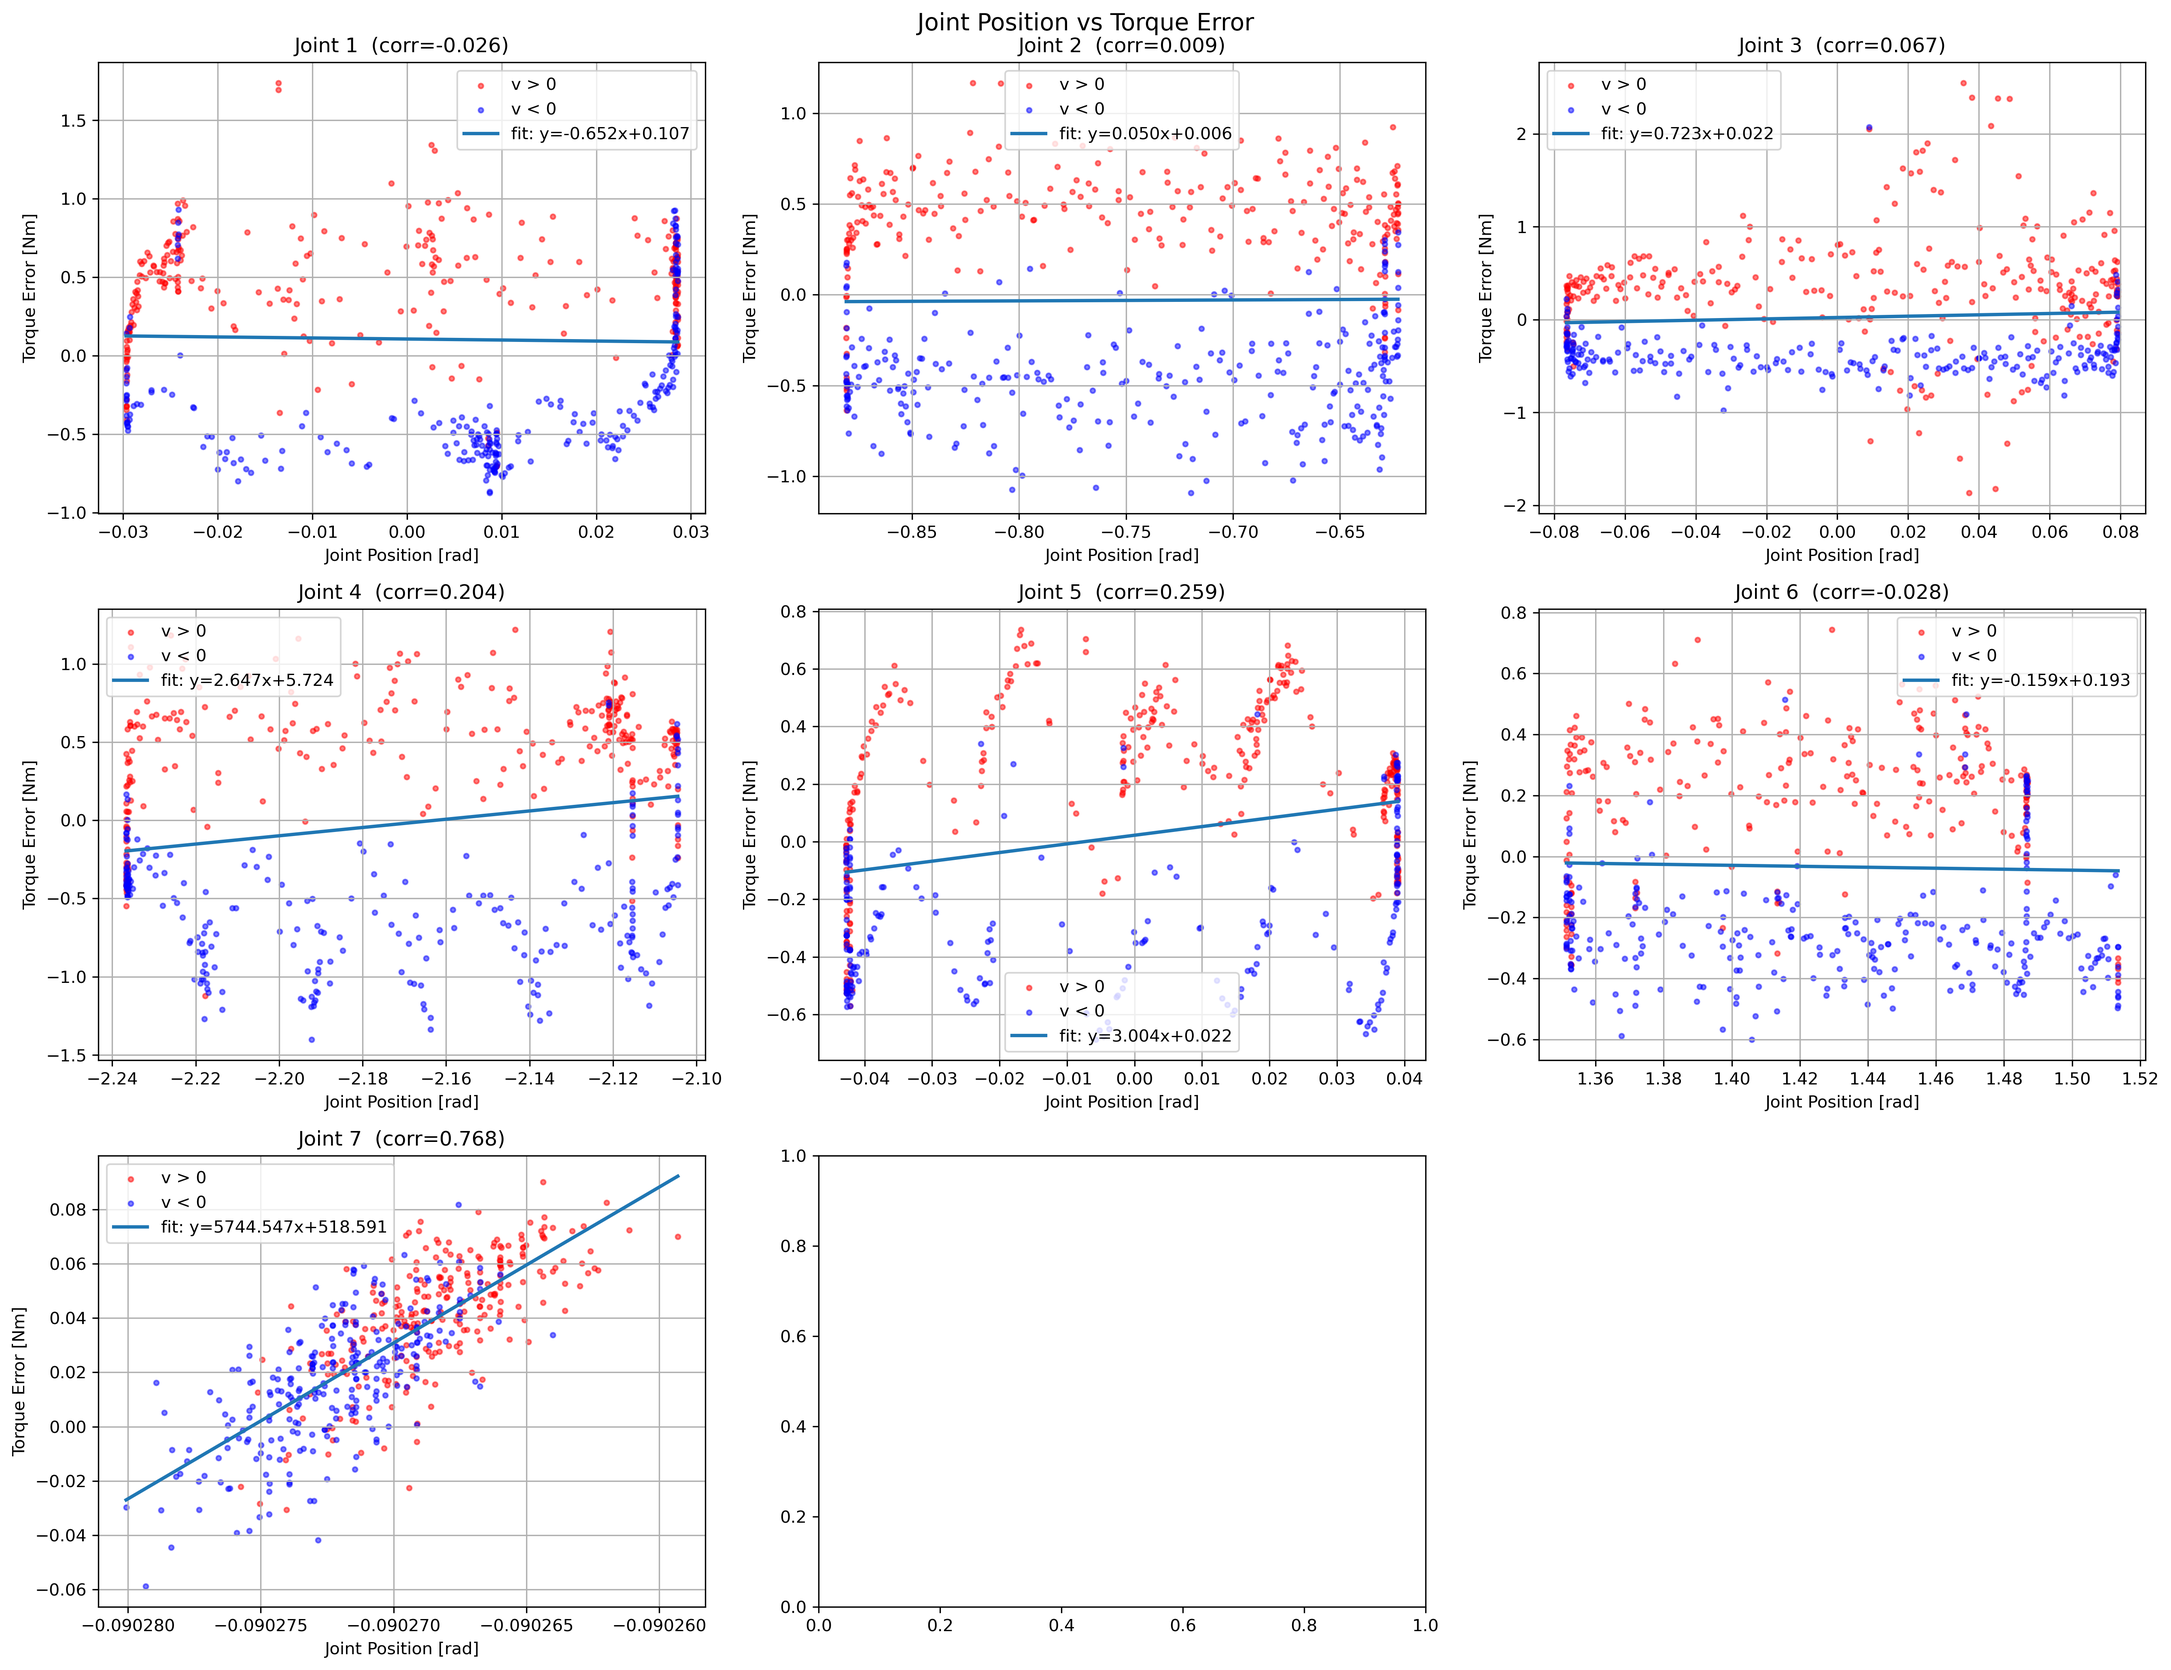
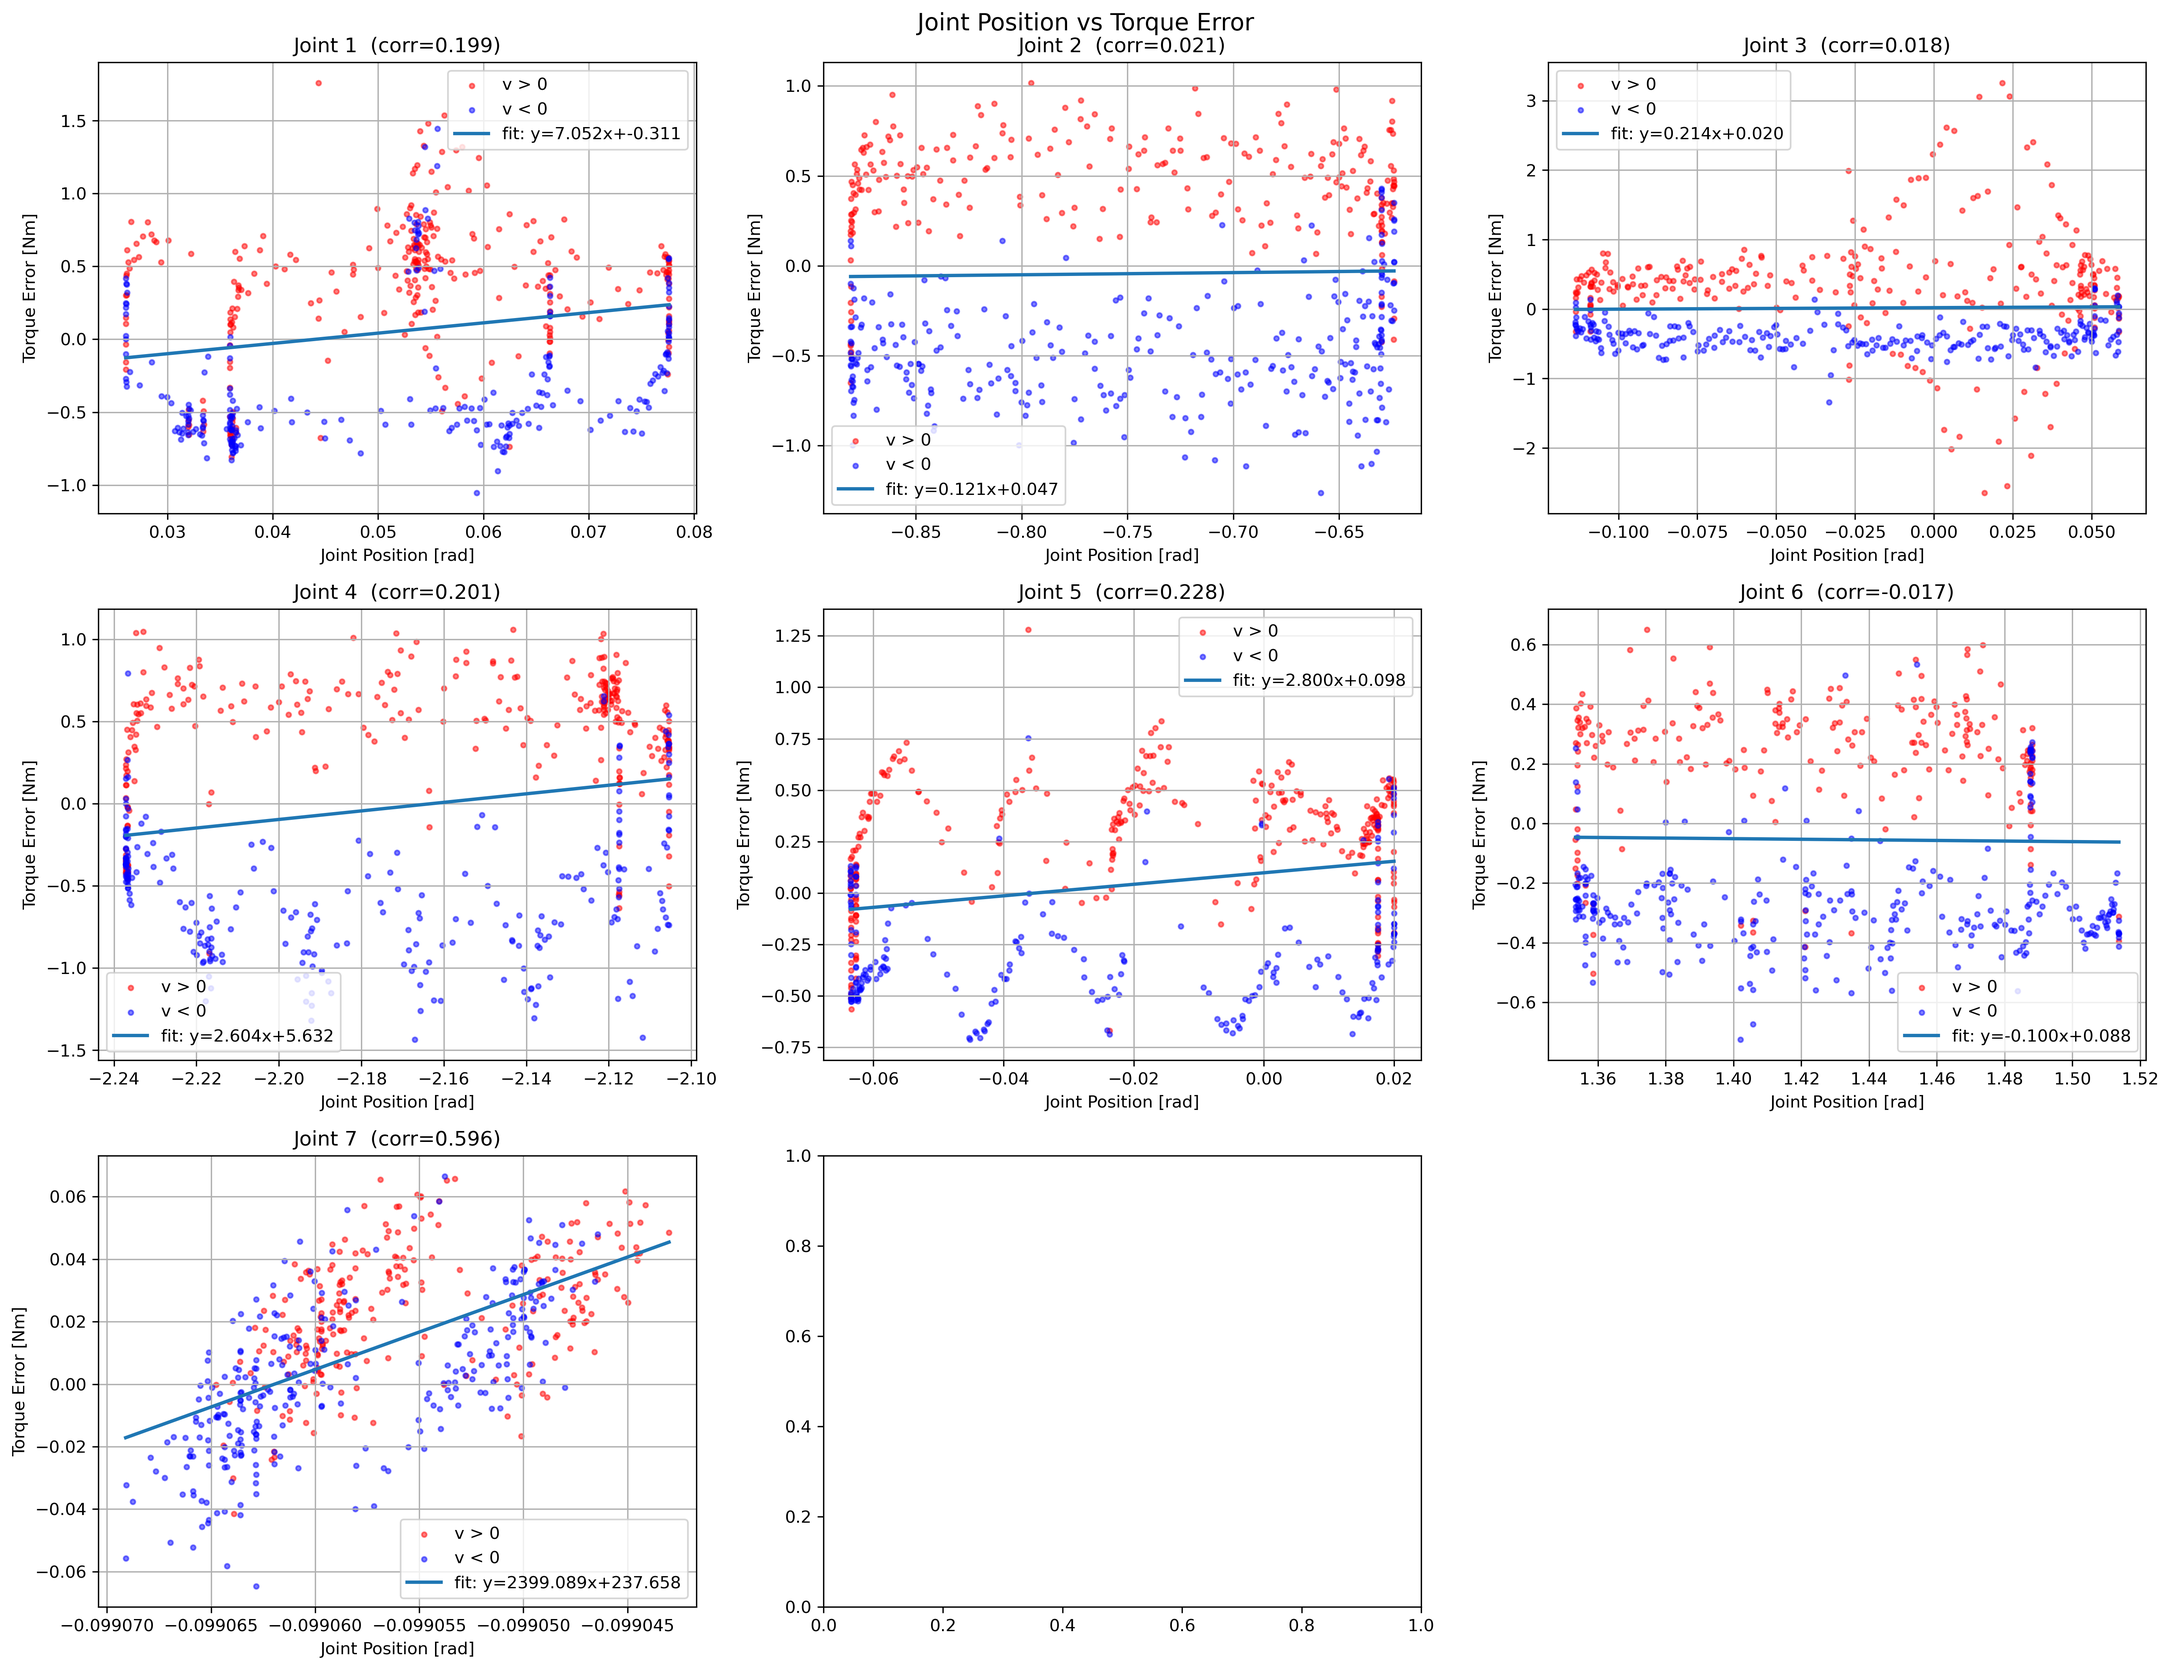
debug

diff --git a/new_structure/py_controllers/py_controllers/cartesian_impedance.py b/new_structure/py_controllers/py_controllers/cartesian_impedance.py
@@ -189,14 +189,12 @@ class CartesianImpedanceController(Node):
 
         #simulated dalay
         self.future_delay = self.declare_parameter(
-            'future_delay', 0.01 # 默认 60 ms
+            'future_delay', 0.005 # 默认 60 ms
         ).value
 
-        self.cloud_delay_steps = 0
-        self.y_hat_cloud_buffer = deque(
-            [np.zeros(7, dtype=float) for _ in range(self.cloud_delay_steps + 1)],
-            maxlen=self.cloud_delay_steps + 1
-        )
+        self.cloud_delay_steps = 100
+        self.y_hat_cloud_buffer = deque(maxlen=self.cloud_delay_steps)
+
 
         # Prediction history memory
         self.y_hat_mem = np.zeros(7)
@@ -446,17 +444,35 @@ class CartesianImpedanceController(Node):
             # print("tau_residual:", tau_residual)
 
             # === 云端延迟补偿 ===
+            # === 云端延迟补偿（时间戳对齐版）===
             if self.gp_active:
 
-                # 1⃣ 取“最老”的 cloud（≈ t - Δt）
+                t_now = self.get_clock().now().nanoseconds * 1e-9
+
+                # with self._gp_lock:
                 if len(self.y_hat_cloud_buffer) > 0:
-                    y_cloud_delayed = self.y_hat_cloud_buffer[0]
+                    # 找“预测时间最接近当前时刻”的 cloud 结果
+                    best = min(
+                        self.y_hat_cloud_buffer,
+                        key=lambda e: abs(e["t"] - t_now)
+                    )
+                    y_cloud_delayed = best["y"]
                 else:
                     y_cloud_delayed = np.zeros(7)
 
+                self.y_hat_cloud = y_cloud_delayed
+
+
+                # 1⃣ 取“最老”的 cloud（≈ t - Δt）
+                # if len(self.y_hat_cloud_buffer) > 0:
+                #     y_cloud_delayed = self.y_hat_cloud_buffer[0]
+                # else:
+                #     y_cloud_delayed = np.zeros(7)
+                # self.y_hat_cloud = y_cloud_delayed
+
                 # 2⃣ 融合策略（你原来的 mode 放这里）
                 mode = self.gp_mode
-                mode = "local"
+                mode = "none"
 
                 if mode == "local":
                     self.y_hat_combined = self.y_hat_local
@@ -474,7 +490,7 @@ class CartesianImpedanceController(Node):
                     self.y_hat_combined = 0.5 * self.y_hat_local + 0.5 * y_cloud_delayed
 
                 # 3⃣ 真正用于控制
-                # tau = tau - self.y_hat_combined
+                tau = tau - self.y_hat_combined
                 
 
 
@@ -515,7 +531,7 @@ class CartesianImpedanceController(Node):
                         self.ddq_des_joint,
                         self.tau_residual_filtered,
                     )
-                    self.y_hat_combined = self.y_hat_local   
+                    # self.y_hat_local = np.zeros(7)
                     # print(self.gp_counter)
                 # 2) 云端 GP：发异步请求（同一时刻的 q/dq/ddq/残差）
                 # === CLOUD GP 调用 === 
@@ -531,7 +547,7 @@ class CartesianImpedanceController(Node):
                     #   未来输入（不依赖 future_traj，不依赖任务空间）
                     #   永远可计算 —— 保证 cloud GP 每次都能收到预测输入
                     # ============================================================
-                    sigma_ddq = 0.1                    # rad/s^2
+                    sigma_ddq = 0.01                    # rad/s^2
                     delay = float(self.future_delay)
 
                     q_now   = self.q
@@ -612,6 +628,11 @@ class CartesianImpedanceController(Node):
                     #     ddq_samples.append(ddq_k)
 
                     # ---- cloud GP 特征输入 ----
+                    t_now = self.get_clock().now().nanoseconds * 1e-9
+                    t_target = t_now + self.future_delay
+
+                    req.t_target = t_target
+
                     # ---- 主 future ----
                     req.q_future = q_future_main.astype(np.float32).tolist()
                     req.dq_des_joint_future  = dq_future_main.astype(np.float32).tolist()
@@ -689,20 +710,29 @@ class CartesianImpedanceController(Node):
         try:
             resp = future.result()
             if resp is None:
+                print("response not received")
                 return
 
             y_cloud = np.array(resp.y_cloud, dtype=float)
             y_mem   = np.array(resp.y_cloud_aggregation, dtype=float)
 
-            with self._gp_lock:
+            # with self._gp_lock:
                 # 1⃣ 保存“最新 cloud（t_now）”
-                self.y_hat_cloud = y_cloud
+                # self.y_hat_cloud = y_cloud
 
                 # 2⃣ 推入 delay buffer（用于 t-Δt）
-                self.y_hat_cloud_buffer.append(y_cloud)
+                # self.y_hat_cloud_buffer.append(y_cloud)
+                # self.y_hat_cloud_buffer.append(y_mem)
+                
+                # t_now = self.get_clock().now().nanoseconds * 1e-9
 
-                # 3⃣ 其他辅助信息
-                self.y_hat_mem = y_mem
+            self.y_hat_cloud_buffer.append({
+                "t": resp.t_target,
+                "y": y_cloud
+            })
+
+            # 3⃣ 其他辅助信息
+            self.y_hat_mem = y_mem
 
         except Exception as e:
             self.get_logger().warn(f"[Controller] GP response error: {e}")

diff --git a/new_structure/gp/skygp.py b/new_structure/gp/skygp.py
@@ -137,6 +137,7 @@ class SkyGP_rBCM:
         self.Y_list.append(np.zeros((self.y_dim, self.max_data)))
         self.localCount.append(0)
         self.expert_centers.append(np.zeros(self.x_dim))
+        print("appending expert centers")
         self.drop_centers.append(np.zeros(self.x_dim))
         self.drop_counts.append(0)
         self.L_all.append(np.zeros((self.max_data, self.max_data)))
@@ -149,6 +150,7 @@ class SkyGP_rBCM:
 
     def _insert_new_expert_near(self, near_idx):
         if self.last_x is None or len(self.expert_centers) <= 1:
+            print("creating from insert new expert")
             return self._create_new_expert()
 
         left_idx = max(near_idx - 1, 0)
@@ -173,6 +175,7 @@ class SkyGP_rBCM:
         self.Y_list.insert(insert_pos, np.zeros((self.y_dim, self.max_data)))
         self.localCount.insert(insert_pos, 0)
         self.expert_centers.insert(insert_pos, np.zeros(self.x_dim))
+        print("inserting expert centers")
         self.drop_centers.insert(insert_pos, np.zeros(self.x_dim))
         self.drop_counts.insert(insert_pos, 0)
         self.L_all.insert(insert_pos, np.zeros((self.max_data, self.max_data)))
@@ -259,6 +262,7 @@ class SkyGP_rBCM:
         self.update_param_incremental(x, y, model)
 
     def add_point(self, x, y):
+            print("max_experts:",self.max_experts)
             x = np.asarray(x)
             y = np.asarray(y).reshape(-1)
             
@@ -288,6 +292,7 @@ class SkyGP_rBCM:
                 self.expert_weights[model] = 1.0  # reset weight
                 # if expert does not exist
                 if model >= len(self.X_list):
+                    print("creating from add point1")
                     self._create_new_expert(model)
                 if self.localCount[model] < self.max_data:
                     idx = self.localCount[model]
@@ -359,6 +364,7 @@ class SkyGP_rBCM:
             if self.last_expert_idx is not None:
                 model = self._insert_new_expert_near(self.last_expert_idx)
             else:
+                print("creating from add point2")
                 model = self._create_new_expert()
             self._insert_into_expert(model, x_uncat, y_uncat) 
 
@@ -371,7 +377,6 @@ class SkyGP_rBCM:
 
             if len(self.expert_centers) == 0:
                 return np.zeros(self.y_dim), np.ones(self.y_dim) * 10.0
-
             raw_ls = self.model_params[self.expert_creation_order[0]]["log_lengthscale"]
             lengthscale_ref = np.exp(raw_ls[:, 0]) if np.ndim(raw_ls) == 2 else np.exp(raw_ls)
 
@@ -615,6 +620,7 @@ class SkyGP_rBCM:
 
         # 如果已存在专家，用新的超参重置其参数表
         if len(self.expert_creation_order) == 0:
+            print("creating from offline pretrain")
             self._create_new_expert()
         self._reinit_all_expert_params()
 

diff --git a/plot_data.py b/plot_data.py
@@ -318,27 +318,32 @@ def plot_data_from_csv(csv_filename):
             #     ax.plot(time_history, yh_c, '--', linewidth=1.5, label='y_hat_combined')
 
             # 画 local
-            if YH_local is not None:
-                yh_l = YH_local[:, j]
-                ax.plot(time_history, yh_l, '-', linewidth=1.2, alpha=0.8, label='y_hat_local')
+            # if YH_local is not None:
+            #     yh_l = YH_local[:, j]
+            #     ax.plot(time_history, yh_l, '-', linewidth=1.2, alpha=0.8, label='y_hat_local')
 
-            # 画 cloud
+            # # 画 cloud
             if YH_cloud is not None:
                 yh_cl = YH_cloud[:, j]
                 ax.plot(time_history, yh_cl, ':', linewidth=1.2, alpha=0.8, label='cloud')
                 rem = tr - yh_cl
                 ax.plot(time_history, rem, linewidth=1.2, alpha=0.8, label='true - cloud')
 
-            if YH_mem is not None:
-                yh_mem = YH_mem[:, j]
-                ax.plot(time_history, yh_mem, ':', linewidth=1.2, alpha=0.8, label='history')
-                rem = tr - yh_mem
-                ax.plot(time_history, rem, linewidth=1.2, alpha=0.8, label='true - history')
+            # if YH_mem is not None:
+            #     yh_mem = YH_mem[:, j]
+            #     ax.plot(time_history, yh_mem, ':', linewidth=1.2, alpha=0.8, label='history')
+            #     rem = tr - yh_mem
+            #     ax.plot(time_history, rem, linewidth=1.2, alpha=0.8, label='true - history')
 
             # 画剩余误差：残差 - combined（如果有）
             if YH_comb is not None:
                 rem = tr - YH_comb[:, j]
                 ax.plot(time_history, rem, linewidth=1.0, alpha=0.7, label='residual - combined')
+
+            if YH_comb is not None:
+                rem = tr - YH_local[:, j]
+                ax.plot(time_history, rem, linewidth=1.0, alpha=0.7, label='true - local')
+
 
             #     # 简单统计：corr / MSE / MAE
             #     mask = np.isfinite(tr) & np.isfinite(YH_comb[:, j])

diff --git a/new_structure/py_controllers/py_controllers/gp_server.py b/new_structure/py_controllers/py_controllers/gp_server.py
@@ -145,6 +145,7 @@ class GPServer(Node):
             response.y_mem    = [0.0] * 7
             response.mem_dist = 1e6
 
+        response.t_target = request.t_target
         return response
 
 
@@ -298,16 +299,16 @@ class GPServer(Node):
         # key = 关节号（1..6），"default" 为所有关节的默认配置
         per_joint_cfg = {
             "default": dict(
-                max_data_per_expert=50,
+                max_data_per_expert=200,
                 nearest_k=4,
-                max_experts=100,
+                max_experts=1000,
                 timescale=0.03,
             ),
             # 举例：如果你想让 6 号关节忘得快一点、专家少一点，可以单独改：
             6: dict(
-                max_data_per_expert=50,
+                max_data_per_expert=200,
                 nearest_k=4,
-                max_experts=100,
+                max_experts=1000,
                 timescale=0.05,
             ),
         }
